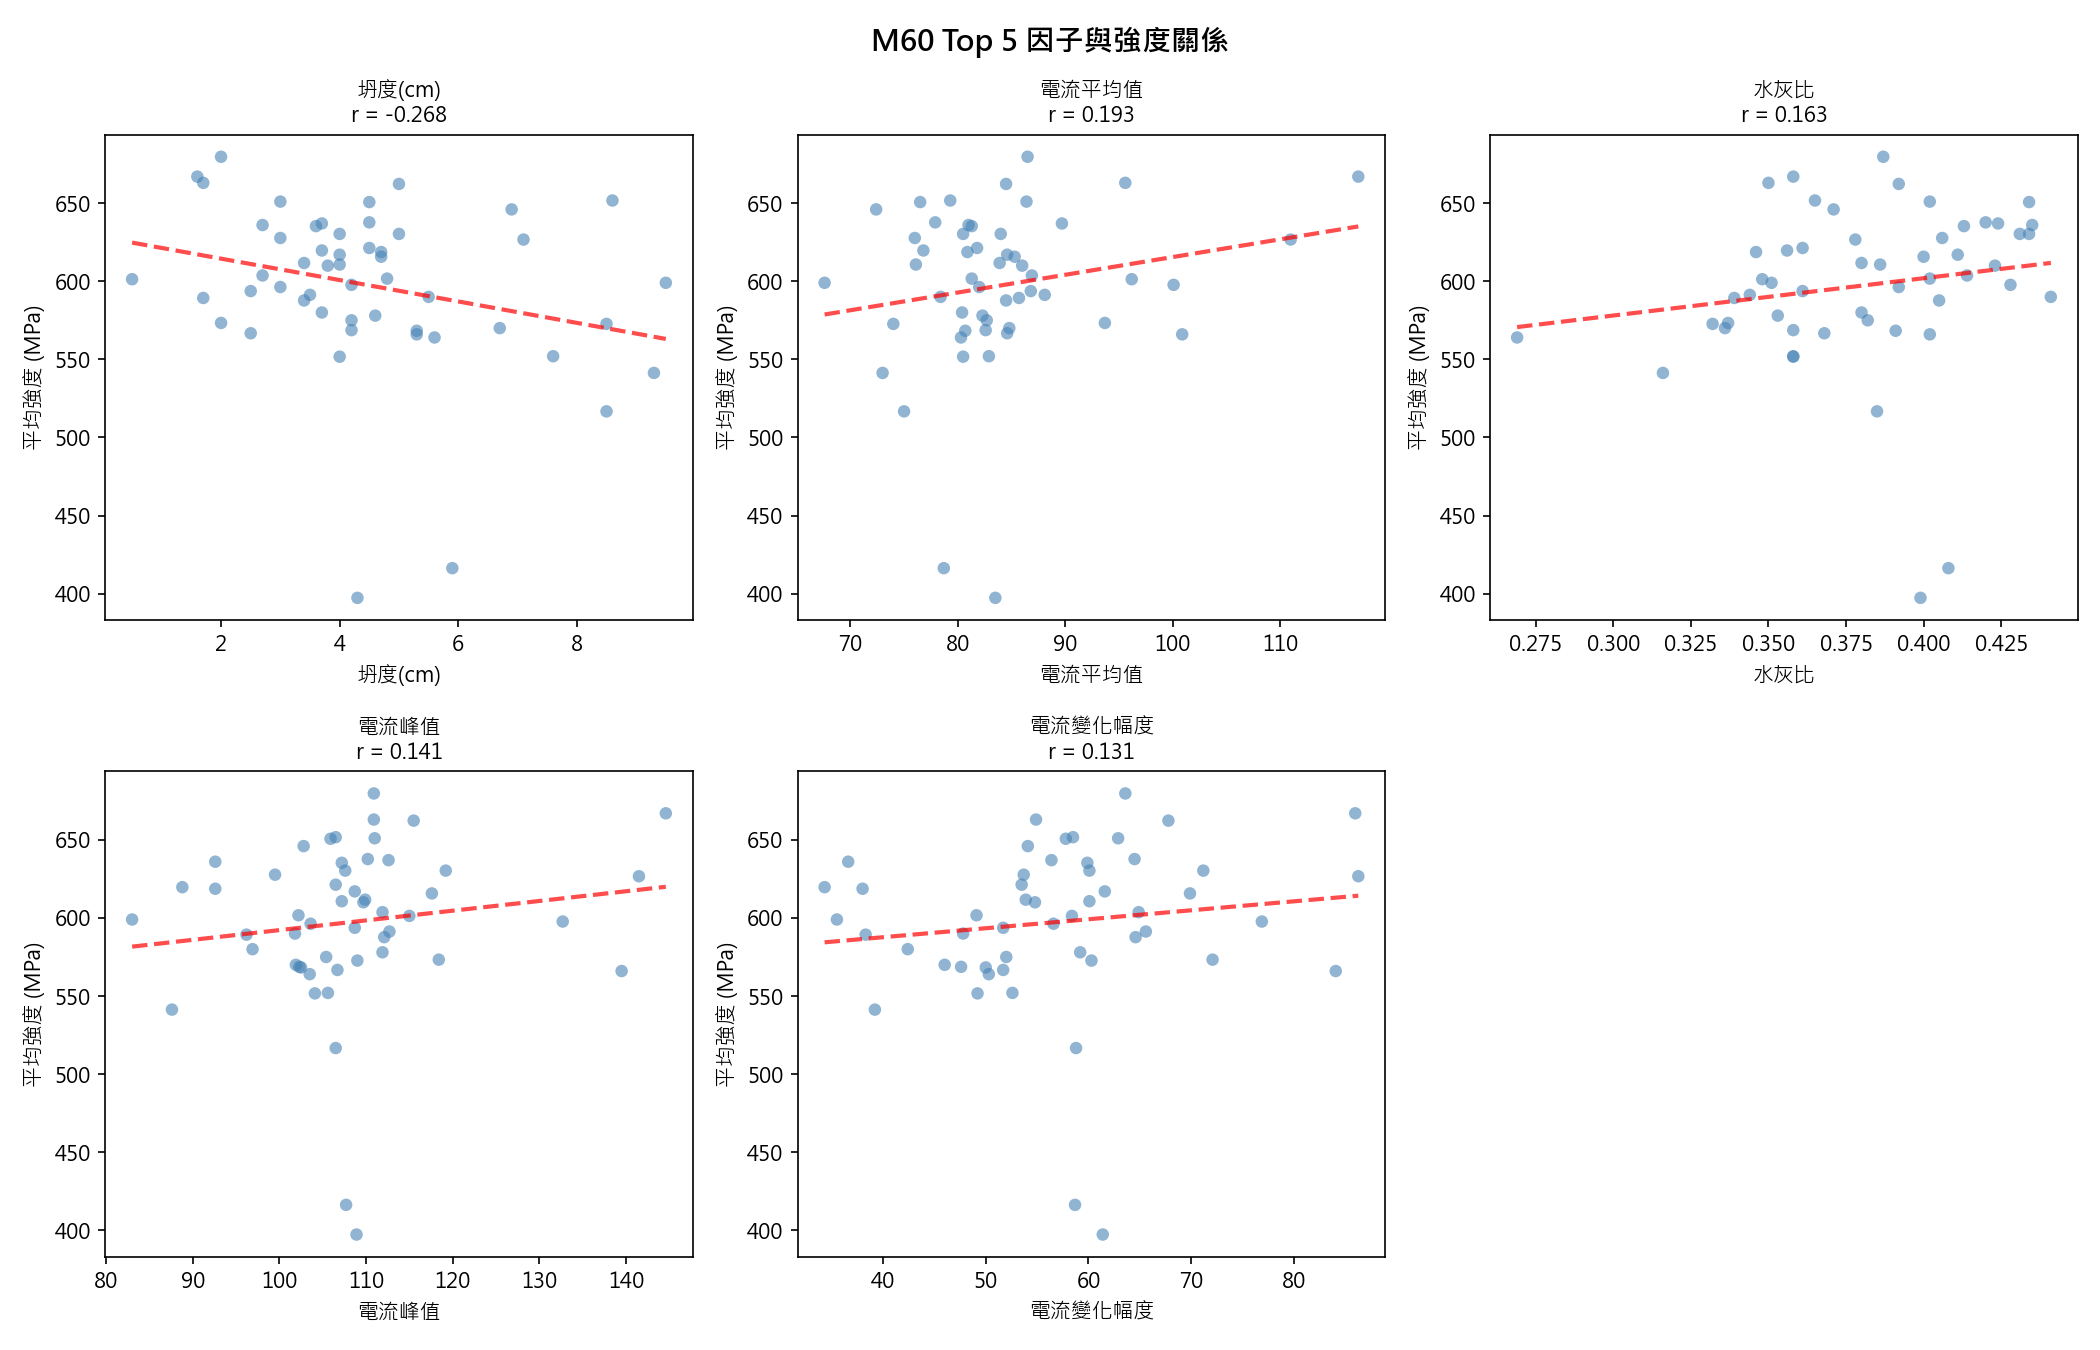
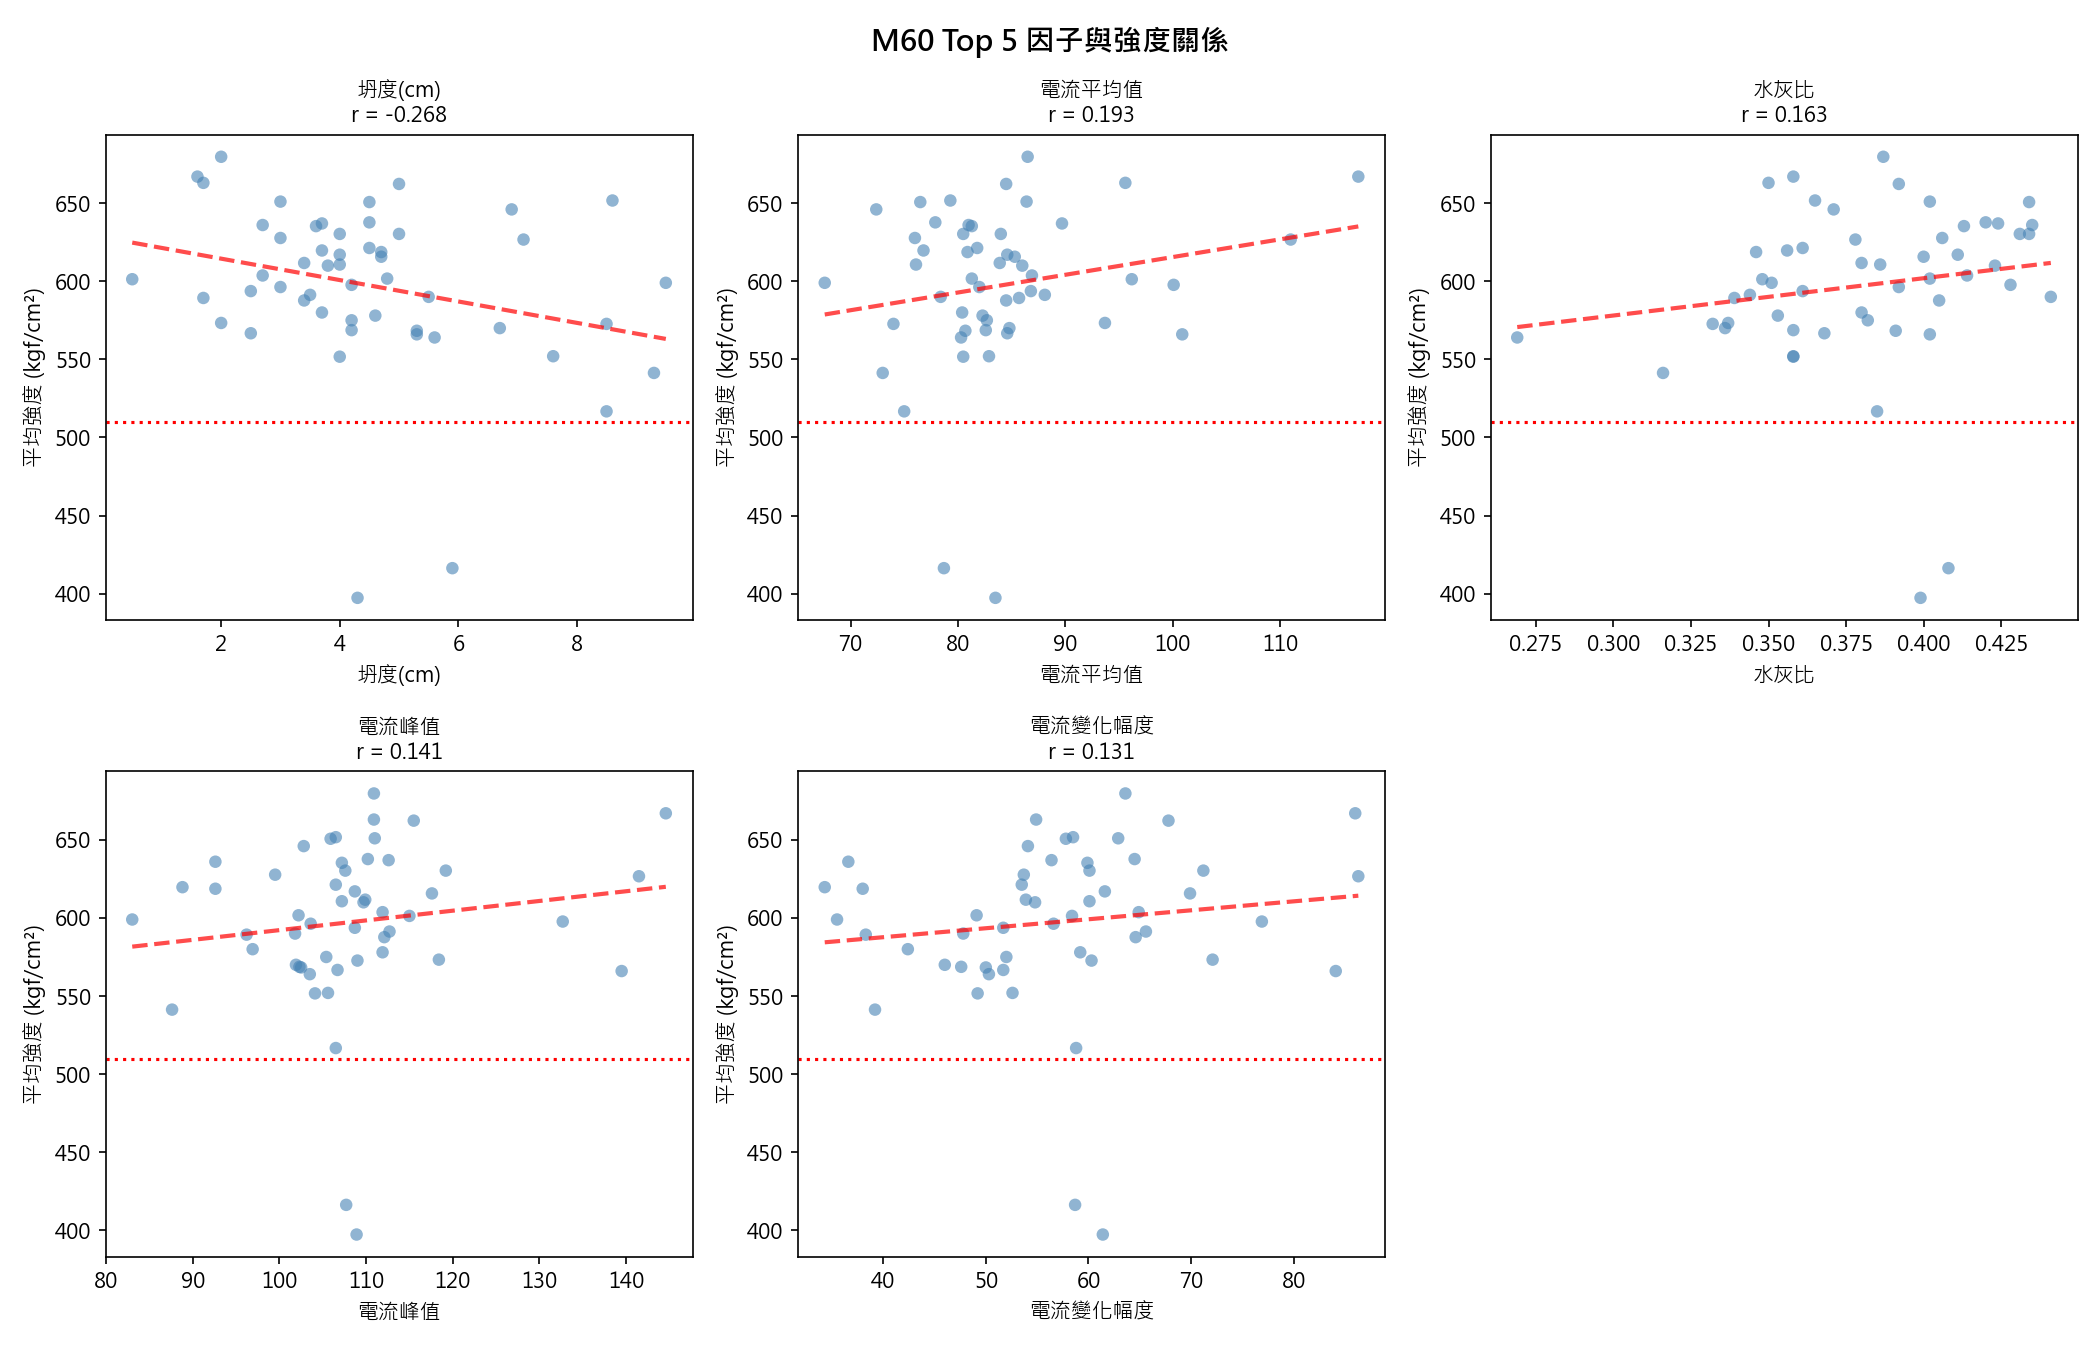
Update design strength to 510 kgf/cm2

diff --git a/README.md b/README.md
@@ -7,8 +7,8 @@
 | 項目 | S60 | M60 |
 |:---|---:|---:|
 | 樣本數 | 46 | 52 |
-| 平均強度 (MPa) | 594.3 | 601.8 |
-| 標準差 (MPa) | 48.3 | 52.2 |
+| 平均強度 (kgf/cm²) | 594.3 | 601.8 |
+| 標準差 (kgf/cm²) | 48.3 | 52.2 |
 
 ## 🔑 關鍵發現
 
